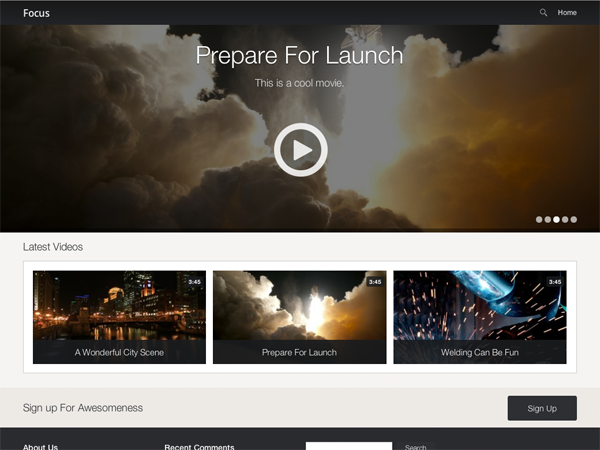
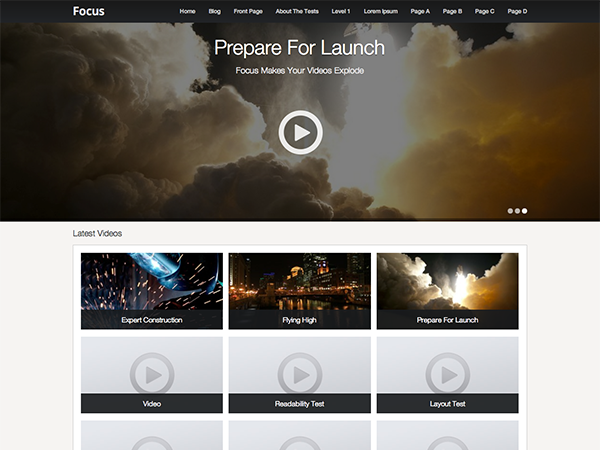
Fixes and updates.

diff --git a/style.css b/style.css
@@ -871,7 +871,7 @@ body{
 
 .slider,
 .slider .slide{
-	height: 360px;
+	height: 420px;
 }
 
 .slider{
@@ -945,7 +945,7 @@ body{
 	position: absolute;
 	text-indent: -9999px;
 	text-decoration: none;
-	top: 60%;
+	top: 55%;
 	left: 50%;
 	
 	margin: -48px 0 0 -48px;

diff --git a/README.md b/README.md
@@ -17,3 +17,4 @@ Bug fixes and improved compatibility with WordPress theme unit tests.
 
 **0.9.2**
 Added admin bar for notifications.
+Improved integration with WordPress' new Media Manager.
